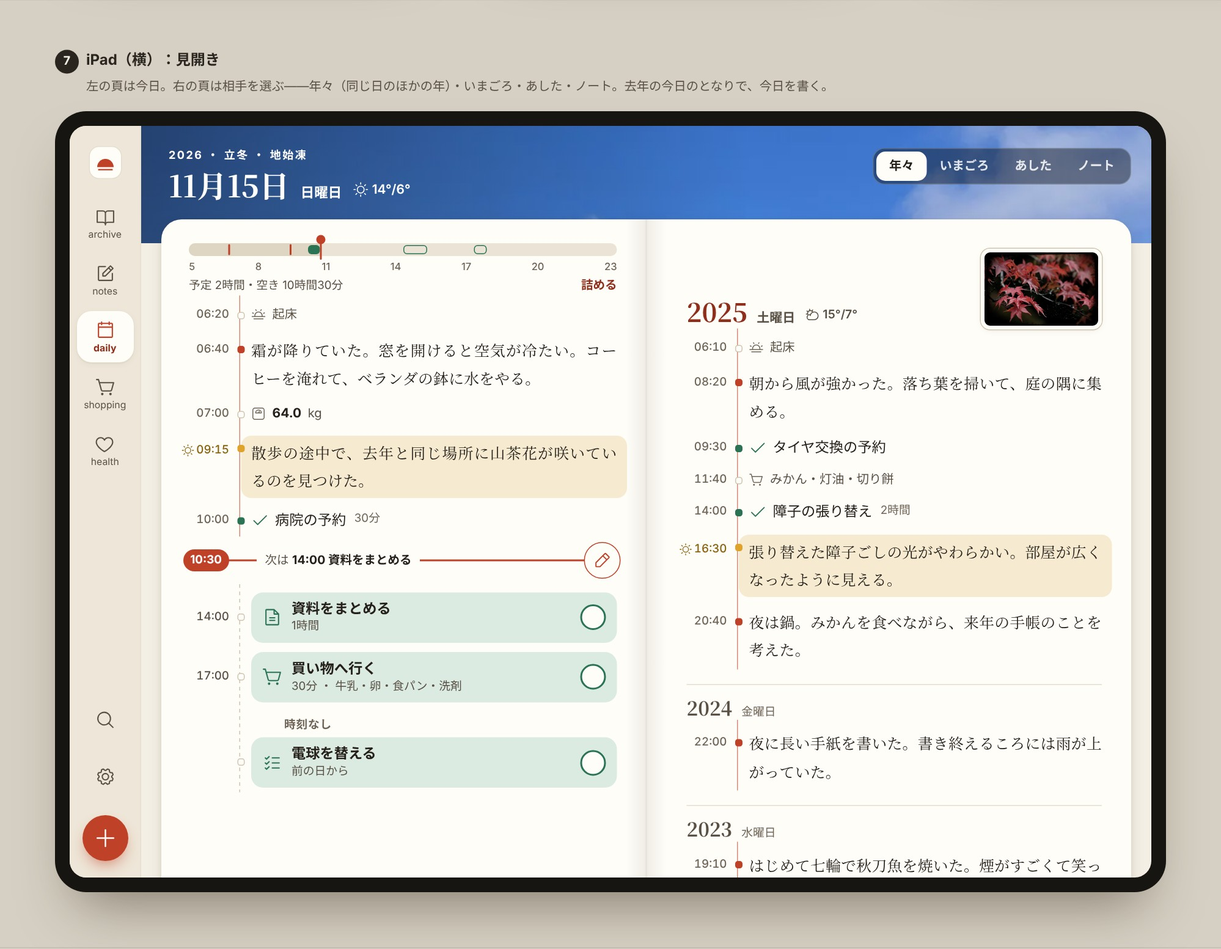
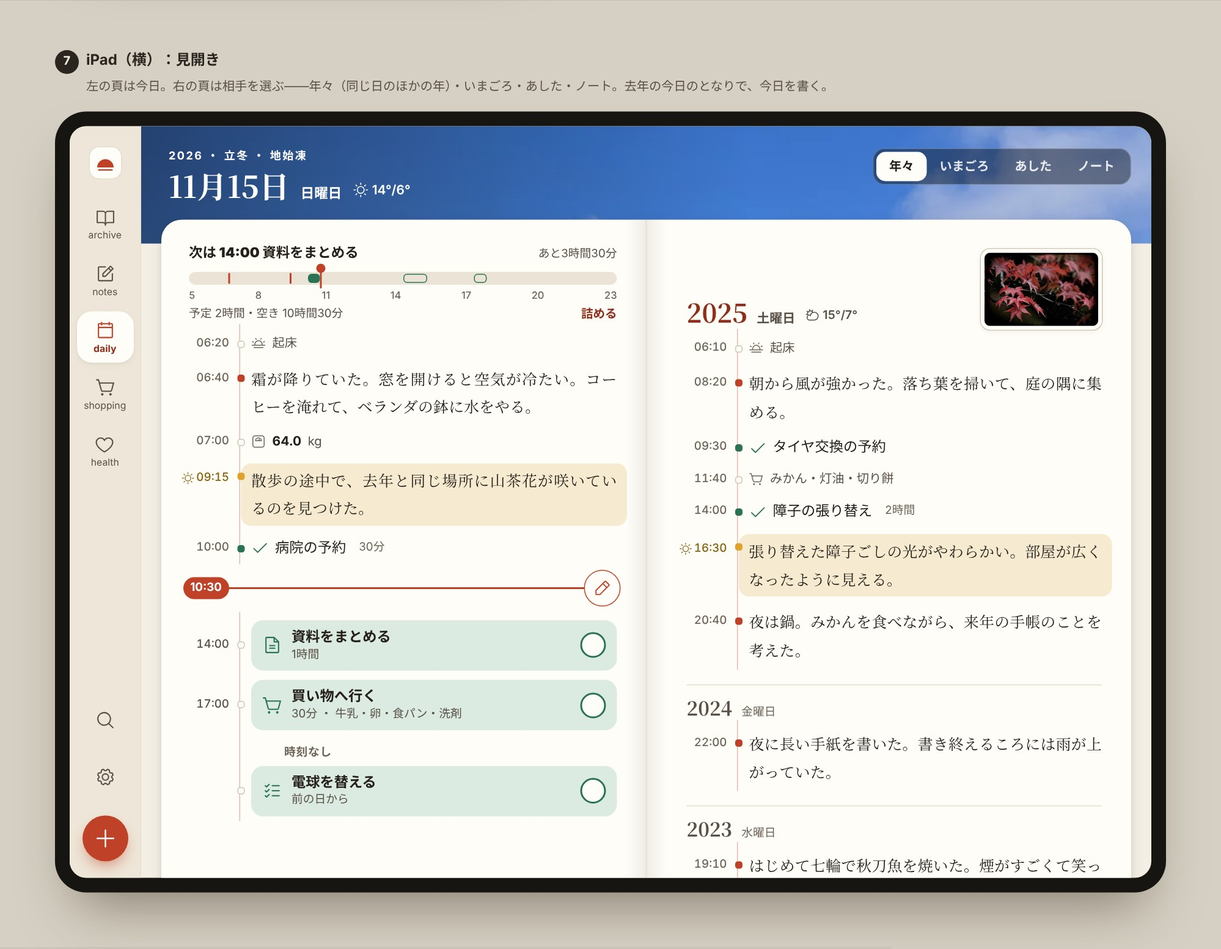
構想：指摘を受けて見本を直し、四枚足した（線は時刻の印だけ・暦年の一冊・長い日・鍵・段ごとの席）
- 今日の頁：帯は今のまま（次は・あと・予定と空き・詰める）。「いま」の線は丸薬と線と筆だけ。帯に過ぎた分の塗りを足さない・
  余白の線は頁ぜんぶ同じ細い線（進み具合の棒に見えないように）。
- 一年の一冊：一冊は暦年。月の列は「その月に始まる候」（2025年は73升：頭に 雪下出麦 1/1〜4、終わりに 12/31。js/season.js で引いた）。
  升の一行は日記の最初の一行だけ（無い候は写真と名だけ）。
- 足した絵：06 iPad 縦の月の頁／07 長い日の頁（日記六つ・用事十六・食事四つ・体重・買い物二回で約1.7画面）と、鍵が閉じているあいだの頁／
  08 段ごとの席（いま → 構1・2 → 構3と試用 → 構4）。
- 字は作りもの。コード・記録には触れていない。

次：確定仕様（README を書き直す）と段の計画（stages.md）を書く → 門 → main

Claude-Session: https://claude.ai/code/session_01TdXF5JDXnuSPD5YnDXiuap

diff --git a/shots/vision/mock.html b/shots/vision/mock.html
@@ -100,6 +100,8 @@ button { font: inherit; color: inherit; background: none; border: 0; }
 /* —— 頁（盆そのものが紙） —— */
 .page { position: absolute; inset: 122px 0 0 0; border-radius: 24px 24px 0 0; background: var(--surface); }
 .band { padding: 18px 20px 4px; }
+.band-h { display: flex; justify-content: space-between; align-items: baseline; gap: 10px; margin-bottom: 11px; font: 700 15px/1.3 var(--gothic); }
+.band-h span { font: 400 12.5px/1 var(--gothic); color: var(--ink2); white-space: nowrap; }
 .band-bar { position: relative; height: 14px; border-radius: 7px; background: var(--s2); }
 .band-bar .past { position: absolute; inset: 0 auto 0 0; border-radius: 7px 0 0 7px; background: var(--s3); }
 .band-bar i { position: absolute; top: 2px; height: 10px; border-radius: 4px; background: var(--take); }
@@ -113,8 +115,7 @@ button { font: inherit; color: inherit; background: none; border: 0; }
 
 .rows { position: relative; padding: 4px 18px 0 var(--pl, 14px); }
 .rows::before { content: ""; position: absolute; left: calc(var(--pl, 14px) + 60.75px); top: 0; bottom: 0; width: 1.5px; }
-.rows.ink::before { background: color-mix(in srgb, var(--shu) 62%, transparent); }
-.rows.pencil::before { background: repeating-linear-gradient(to bottom, var(--border2) 0 4px, transparent 4px 8px); }
+.rows::before { background: color-mix(in srgb, var(--shu) 36%, transparent); }
 .r { position: relative; display: grid; grid-template-columns: 50px 1fr; column-gap: 24px; padding: 6px 0; }
 .r::before { content: ""; position: absolute; left: 58.5px; top: 14px; width: 6px; height: 6px; border-radius: 3px; background: var(--surface); border: 1.5px solid var(--border2); }
 .r.w::before { top: 17px; background: var(--shu); border-color: var(--shu); }
@@ -132,7 +133,7 @@ button { font: inherit; color: inherit; background: none; border: 0; }
 .fact b { font: 700 14px/22px var(--num); color: var(--ink); }
 .done { display: flex; align-items: center; gap: 7px; font: 400 15.5px/24px var(--gothic); color: var(--ink); }
 .done .ic { width: 19px; height: 19px; color: var(--take); }
-.done small { font: 400 12.5px/1 var(--gothic); color: var(--ink3); margin-left: 2px; }
+.done small { font: 400 12.5px/1 var(--gothic); color: var(--ink3); margin-left: 7px; }
 
 /* 「いま」の線：ここから上は墨（あったこと）、下は鉛筆（これから） */
 .now { position: relative; display: grid; grid-template-columns: 50px 1fr 40px; column-gap: 10px; align-items: center; padding: 6px 14px 6px 14px; }
@@ -358,10 +359,12 @@ button { font: inherit; color: inherit; background: none; border: 0; }
 .yr-top { position: absolute; display: flex; align-items: center; gap: 18px; }
 .yr-top h1 { font: 700 52px/1 var(--mincho); letter-spacing: .02em; }
 .yr-top .cbtn { background: var(--surface); border: 1px solid var(--border2); }
-.wall { position: absolute; display: grid; grid-template-columns: repeat(12, 1fr); grid-template-rows: auto repeat(6, auto); grid-auto-flow: column; column-gap: 8px; row-gap: 15px; }
+.wall { position: absolute; display: grid; grid-template-columns: repeat(12, 1fr); column-gap: 8px; align-items: start; }
+.wall .col { display: grid; row-gap: 11px; }
+.kt i { display: block; margin-top: 1px; font: 500 10px/1.2 var(--num); font-style: normal; color: var(--ink3); }
 .wall h6 { font: 700 15px/1 var(--mincho); padding-bottom: 2px; display: flex; flex-direction: column; gap: 5px; }
 .wall h6 small { font: 400 10.5px/1 var(--gothic); color: var(--ink3); letter-spacing: .04em; }
-.wall .kt .ph { border-radius: 7px; aspect-ratio: 4 / 3; }
+.wall .kt .ph { border-radius: 7px; }
 .wall .kt b { margin-top: 4px; font-size: 12px; white-space: nowrap; overflow: hidden; }
 .pop { position: absolute; z-index: 5; width: 300px; padding: 12px 12px 14px; border-radius: 18px; background: var(--surface); border: 1px solid var(--border2); box-shadow: 0 24px 50px -18px rgba(50, 38, 15, .5); }
 .pop .ph { aspect-ratio: 3 / 2; border-radius: 10px; background: url(../../img/season-photo/k46.webp) center / cover; }
@@ -372,6 +375,66 @@ button { font: inherit; color: inherit; background: none; border: 0; }
 .edge-w { position: absolute; height: 22px; border-radius: 6px; background: linear-gradient(90deg, #c9cfdc, #d7d3cf, #dcdde6, #ead5d9, #d3e0d8, #dbe5c7, #f3c6d3, #e9d4e6, #cfe3c5, #bfe0c9, #d9e7b0, #b9d8d0, #b7d3e8, #a9d6e0, #f2d7a7, #e9dcae, #e7cf9f, #d6dfe6, #e8c9a8, #e3b9a0, #d9c2b0, #cfcbc0, #d5d9de, #cdd6e3, #c9cfdc); box-shadow: inset 0 0 0 1px rgba(60, 45, 20, .10); }
 .edge-w::before { content: ""; position: absolute; inset: 0; border-radius: 6px; background: repeating-linear-gradient(90deg, rgba(60, 45, 20, .17) 0 1px, transparent 1px 3.09px); }
 .edge-m { position: absolute; display: grid; grid-template-columns: repeat(12, 1fr); font: 500 11px/1 var(--num); color: var(--ink3); }
+
+/* iPad 縦：月の頁（候ごとに、ある頁だけ並べる） */
+.padv { width: 820px; height: 1180px; border-radius: 18px; }
+.padv .sbp { position: absolute; inset: 0 0 auto 0; height: 28px; display: flex; justify-content: space-between; align-items: center; padding: 6px 22px 0; font: 600 13px/1 var(--num); color: var(--ink); }
+.padv .sbp .batt { display: inline-block; width: 24px; height: 11px; border-radius: 3.5px; border: 1.2px solid currentColor; padding: 1.2px; vertical-align: -1px; }
+.padv .sbp .batt b { display: block; width: 78%; height: 100%; border-radius: 1.5px; background: currentColor; }
+.mon-top { position: absolute; inset: 40px 0 auto 0; height: 64px; display: flex; align-items: center; gap: 14px; padding: 0 44px 0 24px; }
+.mon-top .cbtn { background: var(--surface); border: 1px solid var(--border2); }
+.mon-top h1 { font: 700 34px/1 var(--mincho); display: flex; align-items: baseline; gap: 12px; flex: 1; }
+.mon-top h1 small { font: 700 17px/1 var(--mincho); color: var(--ink3); }
+.mon { position: absolute; inset: 116px 44px 0 24px; }
+.khead { display: flex; align-items: center; gap: 12px; margin: 18px 0 10px; }
+.khead .ph { width: 54px; height: 36px; border-radius: 7px; background: center / cover; flex: none; }
+.khead b { font: 700 18px/1 var(--mincho); letter-spacing: .06em; }
+.khead small { font: 400 12.5px/1 var(--gothic); color: var(--ink3); }
+.khead::after { content: ""; flex: 1; height: 1px; background: var(--border2); }
+.mgrid { display: grid; grid-template-columns: repeat(5, 1fr); gap: 10px; }
+.mgrid .mini { width: auto; height: 150px; }
+.mgrid .mini .ph { height: 64px; }
+.mgrid .mini p:not(.d) { font-size: 12.5px; }
+.mini .f { display: grid; gap: 3px; padding: 8px 10px 0; font: 400 11.5px/1.45 var(--gothic); color: var(--ink2); }
+.mini .f span { display: flex; gap: 5px; align-items: flex-start; }
+.mini .f .ic { width: 13px; height: 13px; margin-top: 2px; color: var(--ink3); }
+.padv .edge-v { right: 14px; top: 132px; bottom: 110px; width: 14px; }
+.padv .edge-v i { top: 86%; right: -3px; width: 20px; }
+.padv .tabbar { left: 150px; right: 218px; bottom: 22px; }
+.padv .fab { right: 150px; bottom: 25px; }
+
+/* 長い日の頁（送った全体）と、鍵が閉じているあいだの今日の頁 */
+.phone.long { height: auto; min-height: 852px; }
+.long .page { position: relative; inset: auto; margin-top: 218px; padding-bottom: 46px; }
+.long .plate { background-image: linear-gradient(180deg, rgba(10, 8, 6, .34), rgba(10, 8, 6, 0) 34%, rgba(10, 8, 6, 0) 52%, rgba(10, 8, 6, .62)), url(../../img/season-photo/k42.webp); }
+.fold { position: absolute; z-index: 6; left: 0; right: 0; height: 0; border-top: 1.5px dashed color-mix(in srgb, var(--ai) 60%, transparent); }
+.fold u { position: absolute; right: 8px; top: -19px; padding: 2px 7px; border-radius: 8px; background: var(--ai); color: #fff; font: 700 10.5px/1.3 var(--gothic); text-decoration: none; }
+.bgap { height: 18px; }
+.r.f1 .t { color: var(--ink); font-weight: 700; }
+.r.c::before { display: none; }
+.r .t.slot { font: 700 12px/20px var(--gothic); letter-spacing: .04em; padding-top: 2px; }
+.r .t.late { font-size: 11px; line-height: 1.25; padding-top: 8px; color: var(--ink3); }
+.r.x { padding: 1px 0; }
+.r.x::before { top: 9px; }
+.r.d.x::before { top: 10px; }
+.done.bundle { align-items: flex-start; }
+.done.bundle .ic { margin-top: 2.5px; }
+.clamp3 { display: -webkit-box; -webkit-line-clamp: 3; -webkit-box-orient: vertical; overflow: hidden; }
+.more { display: inline-block; margin: 3px 0 2px; padding: 0 10px; height: 24px; border-radius: 12px; background: var(--s2); font: 400 12px/24px var(--gothic); color: var(--ink2); }
+.lockrow { justify-self: start; display: inline-flex; align-items: center; gap: 8px; height: 40px; padding: 0 18px; border-radius: 20px; background: var(--s2); font: 700 14px/1 var(--gothic); color: var(--ink); }
+.lockrow .ic { width: 17px; height: 17px; color: var(--ink2); }
+.r.lk { padding: 10px 0 8px; }
+.r.lk::before { display: none; }
+/* 段ごとの席（小さな図） */
+.stg { display: grid; grid-template-columns: 64px repeat(4, 182px); gap: 14px 22px; align-items: start; }
+.stg h5 { font: 700 14.5px/1.4 var(--gothic); color: #2a251f; }
+.stg h5 small { display: block; font: 400 12px/1.5 var(--gothic); color: #5a5146; }
+.stg .seat { align-self: center; font: 700 13px/1.4 var(--gothic); color: #5a5146; }
+.dia.s { width: 182px; height: 318px; border-width: 6px; border-radius: 24px; font-size: 11px; line-height: 1.35; }
+.dia.s div { left: 7px; right: 7px; border-radius: 8px; }
+.dia.s .hd { left: 0; right: 0; border-radius: 0; }
+.dia.s .tb { left: 7px; right: 7px; bottom: 7px; height: 30px; border-radius: 15px; font-size: 8px; padding: 0 3px; }
+.dia.s .q { background: var(--s2); color: var(--ink3); border-style: dashed; }
 
 /* 三つの案の骨組み（小さな図） */
 .dia { width: 250px; height: 500px; border-radius: 30px; background: var(--bg); border: 8px solid #171512; position: relative; overflow: hidden; font: 700 12.5px/1.3 var(--gothic); }
@@ -389,7 +452,7 @@ button { font: inherit; color: inherit; background: none; border: 0; }
 <section class="sheet" id="sheet-phone-1">
 
   <div class="shot">
-    <p class="cap"><i>1</i>今日の頁<small>「いま」の線から上は墨（あったこと）、下は札（これから）。<br>済ませた用事は、記録の一行に変わる。</small></p>
+    <p class="cap"><i>1</i>今日の頁<small>「いま」の線は時刻の印だけ。上は字（あったこと）、下は札（これから）。<br>帯は今のまま。済ませた用事は、記録の一行に変わる。</small></p>
     <div class="device"><div class="board phone" id="p-today">
       <div class="sb"><b>10:30</b><span class="sbr"><span class="bars"><b style="height:4px"></b><b style="height:6px"></b><b style="height:8.5px"></b><b style="height:11px"></b></span><span class="batt"><b></b></span></span></div>
       <div class="sky">
@@ -400,7 +463,8 @@ button { font: inherit; color: inherit; background: none; border: 0; }
       <div class="ytabs" style="top:99px"><b>2025</b><b>2024</b><b>2023</b></div>
       <div class="page">
         <div class="band">
-          <div class="band-bar"><span class="past" style="width:30.6%"></span>
+          <div class="band-h"><b>次は 14:00 資料をまとめる</b><span>あと3時間30分</span></div>
+          <div class="band-bar">
             <i class="w" style="left:9.3%"></i><i class="w" style="left:23.6%"></i>
             <i style="left:27.8%;width:2.8%"></i><i class="todo" style="left:50%;width:5.6%"></i><i class="todo" style="left:66.7%;width:2.8%"></i>
             <i class="nowdot" style="left:30.6%"></i></div>
@@ -414,7 +478,7 @@ button { font: inherit; color: inherit; background: none; border: 0; }
           <div class="r w g"><span class="t"><i class="ic" data-ic="sun"></i>09:15</span><p class="prose good">散歩の途中で、去年と同じ場所に山茶花が咲いているのを見つけた。</p></div>
           <div class="r d"><span class="t">10:00</span><p class="done"><i class="ic" data-ic="check"></i>病院の予約<small>30分</small></p></div>
         </div>
-        <div class="now"><span class="pill">10:30</span><span class="next">次は <b>14:00 資料をまとめる</b></span><span class="pen"><i class="ic" data-ic="edit"></i></span></div>
+        <div class="now"><span class="pill">10:30</span><span></span><span class="pen"><i class="ic" data-ic="edit"></i></span></div>
         <div class="rows pencil">
           <div class="r s"><span class="t">14:00</span><div class="slip"><i class="ic" data-ic="paper"></i><div><b>資料をまとめる</b><small>1時間</small></div><span class="o"></span></div></div>
           <div class="r s"><span class="t">17:00</span><div class="slip"><i class="ic" data-ic="cart"></i><div><b>買い物へ行く</b><small>30分 ・ 牛乳・卵・食パン・洗剤</small></div><span class="o"></span></div></div>
@@ -527,7 +591,7 @@ button { font: inherit; color: inherit; background: none; border: 0; }
   </div>
 
   <div class="shot">
-    <p class="cap"><i>5</i>一年の一冊<small>一年は七十二の章。右の縁は小口——頁の束に季節の色が出て、<br>なぞると日へ飛ぶ。厚みで見せ、数や穴では見せない。</small></p>
+    <p class="cap"><i>5</i>一年の一冊<small>一冊は暦年。月ごとに、その月に始まる候。升の一行は日記の最初の一行だけ<br>（無い候は写真と名だけ）。右の縁は小口——なぞると日へ飛ぶ。</small></p>
     <div class="device"><div class="board phone" id="p-year">
       <div class="sb on-paper"><b>10:37</b><span class="sbr"><span class="bars"><b style="height:4px"></b><b style="height:6px"></b><b style="height:8.5px"></b><b style="height:11px"></b></span><span class="batt"><b></b></span></span></div>
       <div class="vol-top"><span class="cbtn"><i class="ic" data-ic="chevron-left"></i></span><h1>2025</h1><span class="cbtn"><i class="ic" data-ic="more"></i></span></div>
@@ -542,6 +606,31 @@ button { font: inherit; color: inherit; background: none; border: 0; }
   <div class="shot">
     <p class="cap"><i>6</i>暗い面（墨）<small>同じ頁を、札の組だけ替えて。<br>形・働き・動きは変えない。</small></p>
     <div class="device"><div class="board phone dark" id="p-today-dark"></div></div>
+  </div>
+</section>
+
+<!-- ================= 電話 その3：長い日・鍵 ================= -->
+<section class="sheet" id="sheet-phone-3">
+  <div class="shot">
+    <p class="cap"><i>11</i>長い日の頁（送った全体）<small>日記五つ＋あとから一つ・用事十六・食事四つ・体重・買い物二回・起床と就寝。<br>箱も見出しも足さず、時刻の列と余白だけで組む。青い点線が一画面ぶん。</small></p>
+    <div class="device"><div class="board phone long" id="p-long">
+      <div class="sb"><b>10:40</b><span class="sbr"><span class="bars"><b style="height:4px"></b><b style="height:6px"></b><b style="height:8.5px"></b><b style="height:11px"></b></span><span class="batt"><b></b></span></span></div>
+      <div class="plate">
+        <div class="btns"><span class="rbtn"><i class="ic" data-ic="chevron-left"></i></span><span class="rbtn"><i class="ic" data-ic="more"></i></span></div>
+        <p class="sub">2025 ・ 霜降 ・ 霜始降<em><i class="ic" data-ic="sun"></i>19°/11°</em></p>
+        <p class="date"><b>10月25日</b><span>土曜日</span></p>
+      </div>
+      <div class="ytabs" style="top:191px"><b>2026</b><b class="cur">2025</b><b>2024</b></div>
+      <div class="page past">
+        <div class="rows ink" style="padding-top:16px"><div class="r x f1"><span class="t">05:50</span><p class="fact"><i class="ic" data-ic="sunrise"></i>起床<span style="margin-left:8px;color:var(--ink3)">睡眠 <b>6:40</b></span></p></div><div class="r x"><span class="t">06:05</span><p class="fact"><i class="ic" data-ic="scale"></i><b>64.6</b>kg</p></div><div class="r d x"><span class="t">06:10</span><p class="done bundle"><i class="ic" data-ic="check"></i><span>朝のルーティン・洗濯・ごみ出し</span></p></div><div class="bgap"></div><div class="r x f1"><span class="t slot">朝</span><p class="fact"><i class="ic" data-ic="meal"></i>トースト・ゆで卵・ヨーグルト</p></div><div class="r w"><span class="t">07:40</span><div><p class="prose">霜が降りた。今年はじめて、車の窓が白い。靴下を厚手に替える。</p></div></div><div class="r d x"><span class="t">08:30</span><p class="done"><i class="ic" data-ic="check"></i><span>町内会の書類を出す</span></p></div><div class="r d x"><span class="t">09:00</span><p class="done"><i class="ic" data-ic="check"></i><span>図書館へ本を返す<small>30分</small></span></p></div><div class="r x"><span class="t">09:40</span><p class="fact"><i class="ic" data-ic="cart"></i>牛乳・卵・食パン・りんご・洗剤</p></div><div class="bgap"></div><div class="r w f1"><span class="t">10:15</span><div><p class="prose clamp3">午前のうちに、棚の本を入れ替えた。読み終えた本を下の段へ、これから読む本を目の高さへ。背表紙を眺めていると、去年の冬に読んだ一冊が出てきて、そのまま床に座って読みはじめてしまう。</p><span class="more">全文を読む</span><p class="prose">結局、片づけは半分で終わった。それでも棚の前に立つと、少し先のことを考えたくなる。</p></div></div><div class="r x"><span class="t">12:10</span><p class="fact"><i class="ic" data-ic="meal"></i>きつねうどん・おにぎり</p></div><div class="r d x"><span class="t">13:00</span><p class="done"><i class="ic" data-ic="check"></i><span>資料をまとめる<small>1時間</small></span></p></div><div class="r d x"><span class="t">14:10</span><p class="done bundle"><i class="ic" data-ic="check"></i><span>歯医者の予約・振込・粗大ごみの申し込み</span></p></div><div class="r x"><span class="t slot">間食</span><p class="fact"><i class="ic" data-ic="snack"></i>みかん</p></div><div class="r w g"><span class="t"><i class="ic" data-ic="sun"></i>15:20</span><div><p class="prose good">公園の銀杏が色づきはじめていた。落ち葉を一枚、拾って帰る。</p></div></div><div class="bgap"></div><div class="r d x f1"><span class="t">16:30</span><p class="done"><i class="ic" data-ic="check"></i><span>買い物へ行く<small>30分</small></span></p></div><div class="r x"><span class="t">16:40</span><p class="fact"><i class="ic" data-ic="cart"></i>鶏肉・白菜・豆腐・ゆず</p></div><div class="r d x"><span class="t">17:10</span><p class="done"><i class="ic" data-ic="check"></i><span>夕食の支度</span></p></div><div class="bgap"></div><div class="r x f1"><span class="t">18:30</span><p class="fact"><i class="ic" data-ic="meal"></i>鍋・ごはん</p></div><div class="r d x"><span class="t">19:20</span><p class="done bundle"><i class="ic" data-ic="check"></i><span>風呂・皿洗い・戸締まり</span></p></div><div class="r w"><span class="t">20:40</span><div><p class="prose">夜は鍋。食べながら、来年の手帳のことを話した。</p></div></div><div class="r d x"><span class="t">21:30</span><p class="done"><i class="ic" data-ic="check"></i><span>明日の持ち物をそろえる</span></p></div><div class="r d x c"><span class="t"></span><p class="done"><i class="ic" data-ic="check"></i><span>家計のメモ</span></p></div><div class="r w"><span class="t">22:10</span><div><p class="prose">寝る前に十頁だけ読む。問いが一つ残った。</p></div></div><div class="r x"><span class="t">23:20</span><p class="fact"><i class="ic" data-ic="bed"></i>就寝</p></div><div class="bgap"></div><div class="r w"><span class="t late">10/26<br>07:10</span><div><p class="prose">きのう書き忘れたこと。帰り道で見た月が大きかった。</p></div></div></div>
+        <p class="body-line"><span><i class="ic" data-ic="steps"></i><b>9,840</b>歩</span></p>
+      </div>
+      <span class="fold" style="top:852px"><u>一画面</u></span><span class="fold" style="top:1704px"><u>二画面</u></span>
+    </div></div>
+  </div>
+  <div class="shot">
+    <p class="cap"><i>12</i>鍵が閉じているあいだ<small>今日の頁に出るのは、今の tasks と同じものだけ。<br>日記・引いた事実・年々のつまみは組まない（覆うのではなく、字を持たない）。</small></p>
+    <div class="device"><div class="board phone" id="p-lock"></div></div>
   </div>
 </section>
 
@@ -565,7 +654,8 @@ button { font: inherit; color: inherit; background: none; border: 0; }
       <div class="spread" style="left:100px;right:22px;top:102px;bottom:-24px">
         <div class="leaf">
           <div class="band" style="padding:22px 26px 4px 30px">
-            <div class="band-bar"><span class="past" style="width:30.6%"></span>
+            <div class="band-h"><b>次は 14:00 資料をまとめる</b><span>あと3時間30分</span></div>
+            <div class="band-bar">
               <i class="w" style="left:9.3%"></i><i class="w" style="left:23.6%"></i>
               <i style="left:27.8%;width:2.8%"></i><i class="todo" style="left:50%;width:5.6%"></i><i class="todo" style="left:66.7%;width:2.8%"></i>
               <i class="nowdot" style="left:30.6%"></i></div>
@@ -579,7 +669,7 @@ button { font: inherit; color: inherit; background: none; border: 0; }
             <div class="r w g"><span class="t"><i class="ic" data-ic="sun"></i>09:15</span><p class="prose good">散歩の途中で、去年と同じ場所に山茶花が咲いているのを見つけた。</p></div>
             <div class="r d"><span class="t">10:00</span><p class="done"><i class="ic" data-ic="check"></i>病院の予約<small>30分</small></p></div>
           </div>
-          <div class="now" style="padding-left:24px;padding-right:22px"><span class="pill">10:30</span><span class="next">次は <b>14:00 資料をまとめる</b></span><span class="pen"><i class="ic" data-ic="edit"></i></span></div>
+          <div class="now" style="padding-left:24px;padding-right:22px"><span class="pill">10:30</span><span></span><span class="pen"><i class="ic" data-ic="edit"></i></span></div>
           <div class="rows pencil" style="--pl:24px;padding-right:26px">
             <div class="r s"><span class="t">14:00</span><div class="slip"><i class="ic" data-ic="paper"></i><div><b>資料をまとめる</b><small>1時間</small></div><span class="o"></span></div></div>
             <div class="r s"><span class="t">17:00</span><div class="slip"><i class="ic" data-ic="cart"></i><div><b>買い物へ行く</b><small>30分 ・ 牛乳・卵・食パン・洗剤</small></div><span class="o"></span></div></div>
@@ -612,6 +702,21 @@ button { font: inherit; color: inherit; background: none; border: 0; }
   </div>
 </section>
 
+<!-- ================= iPad 縦：月の頁 ================= -->
+<section class="sheet" id="sheet-pad-2">
+  <div class="shot">
+    <p class="cap"><i>10</i>iPad（縦）：月の頁<small>ひと月を、候ごとの見出しで。ある頁だけが並ぶ（無い日の升は作らない）。<br>書いていない日も、済ませた・買った・歩いたで頁になっている。</small></p>
+    <div class="device pad"><div class="board padv" id="t-month">
+      <div class="sbp"><b>10:38　11月15日(日)</b><span><span class="batt"><b></b></span></span></div>
+      <div class="mon-top"><span class="cbtn"><i class="ic" data-ic="chevron-left"></i></span><h1>11月<small>2025</small></h1><span class="seg paper"><b>七十二候</b><b class="on">月</b><b>年々</b></span></div>
+      <div class="mon"><p class="khead"><span class="ph" style="background-image:url(../../img/season-photo/k44.webp)"></span><b>楓蔦黄</b><small>霜降 末候 ・ 2日―6日</small></p><div class="mgrid"><div class="mini"><p class="d">2<small>日</small></p><p>公園の楓が色づいてきた。</p></div><div class="mini"><p class="d">3<small>月</small></p><p>文化の日。古本市をのぞく。</p></div><div class="mini"><p class="d">4<small>火</small></p><div class="f"><span><i class="ic" data-ic="check"></i>歯医者</span><span><i class="ic" data-ic="cart"></i>柿・ゆず</span><span><i class="ic" data-ic="steps"></i>7,310歩</span></div></div><div class="mini"><p class="d">5<small>水</small></p><p>朝の空が高い。布団を干す。</p></div><div class="mini"><p class="d">6<small>木</small></p><p>夜、湯豆腐にした。</p></div></div><p class="khead"><span class="ph" style="background-image:url(../../img/season-photo/k45.webp)"></span><b>山茶始開</b><small>立冬 初候 ・ 7日―11日</small></p><div class="mgrid"><div class="mini"><p class="d">7<small>金</small></p><p>立冬。暦のうえでは冬がはじまる。</p></div><div class="mini has-ph"><div class="ph" style="background-image:url(../../img/season-photo/k45.webp)"></div><p class="d">8<small>土</small></p><p>山茶花のつぼみがふくらんできた。</p></div><div class="mini"><p class="d">9<small>日</small></p><p>図書館へ。冬に読む本を選ぶ。</p></div><div class="mini"><p class="d">10<small>月</small></p><div class="f"><span><i class="ic" data-ic="check"></i>灯油の配達</span><span><i class="ic" data-ic="meal"></i>おでん</span><span><i class="ic" data-ic="steps"></i>6,120歩</span></div></div><div class="mini"><p class="d">11<small>火</small></p><p>冷たい雨。長靴を出した。</p></div></div><p class="khead"><span class="ph" style="background-image:url(../../img/season-photo/k46.webp)"></span><b>地始凍</b><small>立冬 次候 ・ 12日―16日</small></p><div class="mgrid"><div class="mini"><p class="d">12<small>水</small></p><p>朝、車の窓に霜。</p></div><div class="mini"><p class="d">13<small>木</small></p><p>図書館で三冊借りる。帰りに銀杏並木を歩いた。</p></div><div class="mini"><p class="d">14<small>金</small></p><p>雨。一日家で過ごす。棚の整理をした。</p></div><div class="mini has-ph"><div class="ph" style="background-image:url(../../img/season-photo/k44.webp)"></div><p class="d">15<small>土</small></p><p>落ち葉を掃いて、障子を張り替えた。</p></div><div class="mini"><p class="d">16<small>日</small></p><p>灯油を買い足す。ストーブを出した。</p></div></div><p class="khead"><span class="ph" style="background-image:url(../../img/season-photo/k47.webp)"></span><b>金盞香</b><small>立冬 末候 ・ 17日―21日</small></p><div class="mgrid"><div class="mini"><p class="d">17<small>月</small></p><p>水仙の芽が出ていた。</p></div><div class="mini"><p class="d">19<small>水</small></p><p>干し柿がいい色になってきた。</p></div><div class="mini"><p class="d">20<small>木</small></p><p>夕方の空が早く暮れる。</p></div><div class="mini has-ph"><div class="ph" style="background-image:url(../../img/season-photo/k47.webp)"></div><p class="d">21<small>金</small></p><p>鍋の材料を買いに行く。</p></div></div><p class="khead"><span class="ph" style="background-image:url(../../img/season-photo/k48.webp)"></span><b>虹蔵不見</b><small>小雪 初候 ・ 22日―26日</small></p><div class="mgrid"><div class="mini"><p class="d">22<small>土</small></p><p>朝、吐く息が白い。</p></div><div class="mini"><p class="d">23<small>日</small></p><p>勤労感謝の日。新米を炊く。</p></div><div class="mini"><p class="d">24<small>月</small></p><p>手袋を出した。</p></div></div></div>
+      <div class="edge-v"><i></i></div>
+      <nav class="tabbar"><a class="on"><i class="ic" data-ic="book" data-solid></i>archive</a><a><i class="ic" data-ic="notes"></i>notes</a><a><i class="ic" data-ic="calendar"></i>daily</a><a><i class="ic" data-ic="cart"></i>shopping</a><a><i class="ic" data-ic="heart"></i>health</a></nav>
+      <span class="fab"><i class="ic" data-ic="plus"></i></span>
+    </div></div>
+  </div>
+</section>
+
 <!-- ================= パソコン：机 ================= -->
 <section class="sheet" id="sheet-pc-1">
   <div class="shot">
@@ -638,7 +743,8 @@ button { font: inherit; color: inherit; background: none; border: 0; }
           <div class="sun today"><u>日</u><b>15</b><i>病院の予約</i><i>資料をまとめる</i></div>
         </div>
         <div class="band" style="padding:16px 28px 4px 30px">
-          <div class="band-bar"><span class="past" style="width:30.6%"></span>
+          <div class="band-h"><b>次は 14:00 資料をまとめる</b><span>あと3時間30分</span></div>
+          <div class="band-bar">
             <i class="w" style="left:9.3%"></i><i class="w" style="left:23.6%"></i>
             <i style="left:27.8%;width:2.8%"></i><i class="todo" style="left:50%;width:5.6%"></i><i class="todo" style="left:66.7%;width:2.8%"></i>
             <i class="nowdot" style="left:30.6%"></i></div>
@@ -652,7 +758,7 @@ button { font: inherit; color: inherit; background: none; border: 0; }
           <div class="r w g"><span class="t"><i class="ic" data-ic="sun"></i>09:15</span><p class="prose good">散歩の途中で、去年と同じ場所に山茶花が咲いているのを見つけた。</p></div>
           <div class="r d"><span class="t">10:00</span><p class="done"><i class="ic" data-ic="check"></i>病院の予約<small>30分</small></p></div>
         </div>
-        <div class="now" style="padding-left:24px;padding-right:26px"><span class="pill">10:30</span><span class="next">次は <b>14:00 資料をまとめる</b></span><span class="pen"><i class="ic" data-ic="edit"></i></span></div>
+        <div class="now" style="padding-left:24px;padding-right:26px"><span class="pill">10:30</span><span></span><span class="pen"><i class="ic" data-ic="edit"></i></span></div>
         <div class="rows pencil" style="--pl:24px;padding-right:30px">
           <div class="r s"><span class="t">14:00</span><div class="slip"><i class="ic" data-ic="paper"></i><div><b>資料をまとめる</b><small>1時間</small></div><span class="o"></span></div></div>
           <div class="r s"><span class="t">17:00</span><div class="slip"><i class="ic" data-ic="cart"></i><div><b>買い物へ行く</b><small>30分 ・ 牛乳・卵・食パン・洗剤</small></div><span class="o"></span></div></div>
@@ -687,7 +793,7 @@ button { font: inherit; color: inherit; background: none; border: 0; }
 
 <section class="sheet" id="sheet-pc-2">
   <div class="shot">
-    <p class="cap"><i>9</i>パソコン：一年の七十二枚<small>一年が一画面に収まる。列は月、升は候。升にふれると、その候の頁が出る。下の帯は小口（一年ぶんの頁の束）。</small></p>
+    <p class="cap"><i>9</i>パソコン：一年の七十二枚<small>一年が一画面に収まる。一冊は暦年（2025年は73升：頭に 雪下出麦 1/1–4、終わりに 12/31）。列は暦の月、升はその月に始まる候。下の帯は小口。</small></p>
     <div class="device desk"><div class="board pc" id="d-year">
       <div class="rail wide">
         <p class="brand"><span class="logo"></span>くらしノート</p>
@@ -701,7 +807,7 @@ button { font: inherit; color: inherit; background: none; border: 0; }
       <div class="yr-top" style="left:284px;top:34px"><span class="cbtn"><i class="ic" data-ic="chevron-left"></i></span><h1>2025</h1><span class="cbtn"><i class="ic" data-ic="chevron"></i></span></div>
       <div class="yr-top" style="right:36px;top:44px"><span class="seg paper"><b class="on">七十二候</b><b>月</b><b>年々</b></span><span class="cbtn" style="margin-left:4px"><i class="ic" data-ic="shuffle"></i></span><span class="cbtn"><i class="ic" data-ic="more"></i></span></div>
       <div class="wall" id="wall" style="left:284px;right:36px;top:124px"></div>
-      <div class="pop" style="left:872px;top:330px">
+      <div class="pop" style="left:916px;top:300px">
         <div class="ph"></div>
         <h4>地始凍<small>立冬 次候 ・ 11月12日―16日</small></h4>
         <p><u>12 水</u>朝、車の窓に霜。</p>
@@ -711,6 +817,16 @@ button { font: inherit; color: inherit; background: none; border: 0; }
       <div class="edge-w" style="left:284px;right:36px;bottom:44px"></div>
       <div class="edge-m" style="left:284px;right:36px;bottom:22px"><span>1</span><span>2</span><span>3</span><span>4</span><span>5</span><span>6</span><span>7</span><span>8</span><span>9</span><span>10</span><span>11</span><span>12</span></div>
     </div></div>
+  </div>
+</section>
+
+<!-- ================= 段ごとの席 ================= -->
+<section class="sheet" id="sheet-stages">
+  <div class="stg">
+    <span></span>
+    <h5>いま</h5><h5>構1・構2<small>頁の組み／年々・いまごろ</small></h5><h5>構3 と試用（約二週間）<small>書く・「いま」の線</small></h5><h5>構4 から<small>門で決めたら、席を組み替える</small></h5>
+    <p class="seat">席1<br>（左端）</p><div class="dia s"><div class="hd" style="top:0;height:40px">空の帯</div><div class="" style="top:48px;height:34px">候の札</div><div class="" style="top:88px;height:30px">書く口 三つ</div><div class="" style="top:124px;height:92px">Daily Log<br>（吹き出し）</div><div class="" style="top:222px;height:42px">あの日・どこかの一日</div><div class="tb"><u class="on">daily</u><u>notes</u><u>tasks</u><u>shopping</u><u>health</u></div></div><div class="dia s"><div class="hd" style="top:0;height:40px">空の帯</div><div class="" style="top:48px;height:34px">候の札</div><div class="" style="top:88px;height:30px">書く口 三つ</div><div class="k" style="top:124px;height:92px">頁（字の行・引いた事実）<br>＋年々のつまみ</div><div class="k" style="top:222px;height:42px">いまごろ・どこかの一日</div><div class="tb"><u class="on">daily</u><u>notes</u><u>tasks</u><u>shopping</u><u>health</u></div></div><div class="dia s"><div class="hd" style="top:0;height:40px">空の帯</div><div class="" style="top:48px;height:34px">候の札</div><div class="" style="top:88px;height:24px">ノート・思考</div><div class="k" style="top:118px;height:46px">あったこと（字の行）</div><div class="k" style="top:170px;height:18px">いま ─ 筆</div><div class="k" style="top:194px;height:34px">これから（札。丸は効く）</div><div class="" style="top:234px;height:30px">いまごろ</div><div class="tb"><u class="on">daily</u><u>notes</u><u>tasks</u><u>shopping</u><u>health</u></div></div><div class="dia s"><div class="hd" style="top:0;height:40px">空の帯</div><div class="k" style="top:48px;height:52px">扉（いまの候）</div><div class="k" style="top:106px;height:36px">棚・ふと開く</div><div class="k" style="top:148px;height:62px">いまごろ</div><div class="q" style="top:216px;height:48px">一年の一冊・月の頁<br>（構5）</div><div class="tb"><u class="on">archive</u><u>notes</u><u>daily</u><u>shopping</u><u>health</u></div></div>
+    <p class="seat">席3<br>（まん中）</p><div class="dia s"><div class="hd" style="top:0;height:40px">空の帯</div><div class="" style="top:48px;height:34px">週の暦</div><div class="" style="top:88px;height:30px">一日の帯</div><div class="" style="top:124px;height:92px">時間割</div><div class="" style="top:222px;height:42px">時刻なし</div><div class="tb"><u>daily</u><u>notes</u><u class="on">tasks</u><u>shopping</u><u>health</u></div></div><div class="dia s"><div class="hd" style="top:0;height:40px">空の帯</div><div class="" style="top:48px;height:34px">週の暦</div><div class="" style="top:88px;height:30px">一日の帯</div><div class="" style="top:124px;height:92px">時間割（今のまま）</div><div class="" style="top:222px;height:42px">時刻なし</div><div class="tb"><u>daily</u><u>notes</u><u class="on">tasks</u><u>shopping</u><u>health</u></div></div><div class="dia s"><div class="hd" style="top:0;height:40px">空の帯</div><div class="" style="top:48px;height:34px">週の暦</div><div class="" style="top:88px;height:30px">一日の帯</div><div class="" style="top:124px;height:92px">時間割（今のまま）<br>組む・動かすはここ</div><div class="" style="top:222px;height:42px">時刻なし</div><div class="tb"><u>daily</u><u>notes</u><u class="on">tasks</u><u>shopping</u><u>health</u></div></div><div class="dia s"><div class="hd" style="top:0;height:40px">空の帯</div><div class="" style="top:48px;height:34px">週の暦</div><div class="" style="top:88px;height:30px">一日の帯</div><div class="k" style="top:124px;height:38px">あったこと（字の行）</div><div class="k" style="top:168px;height:18px">いま ─ 筆</div><div class="" style="top:192px;height:42px">時間割（これから）</div><div class="" style="top:240px;height:28px">時刻なし</div><div class="tb"><u>archive</u><u>notes</u><u class="on">daily</u><u>shopping</u><u>health</u></div></div>
   </div>
 </section>
 
@@ -773,30 +889,36 @@ window.KN = { icons: { register: function (name, set) { window.PH = set; } } };
   var KO = ["雀始巣","桜始開","雷乃発声","玄鳥至","鴻雁北","虹始見","葭始生","霜止出苗","牡丹華","蛙始鳴","蚯蚓出","竹笋生","蚕起食桑","紅花栄","麦秋至","蟷螂生","腐草為螢","梅子黄","乃東枯","菖蒲華","半夏生","温風至","蓮始開","鷹乃学習","桐始結花","土潤溽暑","大雨時行","涼風至","寒蝉鳴","蒙霧升降","綿柎開","天地始粛","禾乃登","草露白","鶺鴒鳴","玄鳥去","雷乃収声","蟄虫坏戸","水始涸","鴻雁来","菊花開","蟋蟀在戸","霜始降","霎時施","楓蔦黄","山茶始開","地始凍","金盞香","虹蔵不見","朔風払葉","橘始黄","閉塞成冬","熊蟄穴","鱖魚群","乃東生","麋角解","雪下出麦","芹乃栄","水泉動","雉始雊","款冬華","水沢腹堅","鶏始乳","東風解凍","黄鶯睍睆","魚上氷","土脉潤起","霞始靆","草木萌動","蟄虫啓戸","桃始笑","菜虫化蝶"];
   var SEKKI = ["春分","清明","穀雨","立夏","小満","芒種","夏至","小暑","大暑","立秋","処暑","白露","秋分","寒露","霜降","立冬","小雪","大雪","冬至","小寒","大寒","立春","雨水","啓蟄"];
   var photo = function (k) { return "../../img/season-photo/k" + String(k).padStart(2, "0") + ".webp"; };
-  /* 月の列：1月＝小寒・大寒（候 57〜62）から、六つずつ。 */
-  var monthKo = function (m) { return [0, 1, 2, 3, 4, 5].map(function (i) { return (57 + 6 * (m - 1) + i) % 72; }); };
-  var monthSekki = function (m) { var k = monthKo(m)[0]; return SEKKI[Math.floor(k / 3)] + "・" + SEKKI[(Math.floor(k / 3) + 1) % 24]; };
+  /* 2025年（暦年）の候の続き：[候, 始まり, 終わり]。js/season.js の of() で一日ずつ引いて作った（73）。 */
+  var SEG = [[56,"1/1","1/4"],[57,"1/5","1/9"],[58,"1/10","1/14"],[59,"1/15","1/19"],[60,"1/20","1/24"],[61,"1/25","1/29"],[62,"1/30","2/2"],[63,"2/3","2/7"],[64,"2/8","2/12"],[65,"2/13","2/17"],[66,"2/18","2/22"],[67,"2/23","2/27"],[68,"2/28","3/4"],[69,"3/5","3/9"],[70,"3/10","3/14"],[71,"3/15","3/19"],[0,"3/20","3/24"],[1,"3/25","3/29"],[2,"3/30","4/3"],[3,"4/4","4/8"],[4,"4/9","4/14"],[5,"4/15","4/19"],[6,"4/20","4/24"],[7,"4/25","4/29"],[8,"4/30","5/4"],[9,"5/5","5/9"],[10,"5/10","5/14"],[11,"5/15","5/20"],[12,"5/21","5/25"],[13,"5/26","5/30"],[14,"5/31","6/4"],[15,"6/5","6/10"],[16,"6/11","6/15"],[17,"6/16","6/20"],[18,"6/21","6/25"],[19,"6/26","6/30"],[20,"7/1","7/6"],[21,"7/7","7/11"],[22,"7/12","7/16"],[23,"7/17","7/21"],[24,"7/22","7/27"],[25,"7/28","8/1"],[26,"8/2","8/6"],[27,"8/7","8/11"],[28,"8/12","8/17"],[29,"8/18","8/22"],[30,"8/23","8/27"],[31,"8/28","9/1"],[32,"9/2","9/6"],[33,"9/7","9/11"],[34,"9/12","9/17"],[35,"9/18","9/22"],[36,"9/23","9/27"],[37,"9/28","10/2"],[38,"10/3","10/7"],[39,"10/8","10/12"],[40,"10/13","10/17"],[41,"10/18","10/22"],[42,"10/23","10/27"],[43,"10/28","11/1"],[44,"11/2","11/6"],[45,"11/7","11/11"],[46,"11/12","11/16"],[47,"11/17","11/21"],[48,"11/22","11/26"],[49,"11/27","12/1"],[50,"12/2","12/6"],[51,"12/7","12/11"],[52,"12/12","12/16"],[53,"12/17","12/21"],[54,"12/22","12/25"],[55,"12/26","12/30"],[56,"12/31","12/31"]];
+  var monthSegs = function (m) { return SEG.filter(function (x) { return +x[1].split("/")[0] === m; }); };
+  var monthSekki = function (m) { return monthSegs(m).filter(function (x) { return x[0] % 3 === 0; }).map(function (x) { return SEKKI[x[0] / 3]; }).join("・"); };
+  var edge = function (x) { return x[0] === 56 ? "<i>" + (x[1] === x[2] ? x[1] : x[1] + "–" + x[2].split("/")[1]) + "</i>" : ""; };
 
   var wall = document.getElementById("wall");
   if (wall) {
     var h = "";
     for (var m = 1; m <= 12; m++) {
-      h += "<h6>" + m + "月<small>" + monthSekki(m) + "</small></h6>";
-      monthKo(m).forEach(function (k) {
-        h += '<div class="kt' + (k === 46 ? " cur" : "") + '"><div class="ph" style="background-image:url(' + photo(k) + ')"></div><b>' + KO[k] + "</b></div>";
+      h += '<div class="col"><h6>' + m + "月<small>" + monthSekki(m) + "</small></h6>";
+      monthSegs(m).forEach(function (x) {
+        var k = x[0];
+        h += '<div class="kt' + (k === 46 ? " cur" : "") + '"><div class="ph" style="background-image:url(' + photo(k) + ')"></div><b>' + KO[k] + "</b>" + edge(x) + "</div>";
       });
+      h += "</div>";
     }
     wall.innerHTML = h;
   }
   var vol = document.getElementById("vol-phone");
   if (vol) {
-    var lines = { 39: "朝の空に雁の声。", 40: "菊を一輪、玄関に。", 41: "虫の音が戸口まで届く。", 42: "初霜。車の窓が白い。", 43: "通り雨のあと、虹を見た。", 44: "公園の楓が色づく。",
-      45: "山茶花が咲きはじめた。", 46: "落ち葉を掃いて、障子を張り替えた。", 47: "水仙のつぼみを見つけた。", 48: "朝、吐く息が白い。", 49: "北風。洗濯物がよく乾く。", 50: "みかんを箱で買う。",
-      51: "初雪。", 52: "毛布を一枚足す。", 53: "大掃除の段取りを書く。" };
+    /* 升の一行は、その候に書いた日記の最初の一行だけ。無い候（43・49）は写真と名だけ。 */
+    var lines = { 38: "田んぼの水が抜かれていた。", 39: "朝の空に雁の声。", 40: "菊を一輪、玄関に。", 41: "虫の音が戸口まで届く。", 42: "霜が降りた。車の窓が白い。",
+      44: "公園の楓が色づいてきた。", 45: "立冬。暦のうえでは冬がはじまる。", 46: "朝、車の窓に霜。", 47: "水仙の芽が出ていた。", 48: "朝、吐く息が白い。",
+      50: "みかんを箱で買う。", 51: "初雪。", 52: "毛布を一枚足す。" };
     var v = "";
     [10, 11, 12].forEach(function (m) {
       v += '<p class="mhead">' + m + "月<small>" + monthSekki(m) + "</small></p><div class=\"kgrid\">";
-      monthKo(m).slice(0, m === 12 ? 3 : 6).forEach(function (k) {
+      monthSegs(m).slice(0, m === 12 ? 3 : 6).forEach(function (x) {
+        var k = x[0];
         v += '<div class="kt' + (k === 46 ? " cur" : "") + '"><div class="ph" style="background-image:url(' + photo(k) + ')"></div><b>' + KO[k] + "</b><p>" + (lines[k] || "") + "</p></div>";
       });
       v += "</div>";
@@ -815,6 +937,14 @@ window.KN = { icons: { register: function (name, set) { window.PH = set; } } };
   var src = document.getElementById("p-today"), dst = document.getElementById("p-today-dark");
   if (src && dst) {
     dst.innerHTML = src.innerHTML;
+  }
+  var lk = document.getElementById("p-lock");
+  if (src && lk) {
+    lk.innerHTML = src.innerHTML;
+    lk.querySelectorAll(".ytabs, .band-bar i.w").forEach(function (el) { el.remove(); });
+    var ink = lk.querySelector(".rows.ink");
+    ink.querySelectorAll(".r").forEach(function (el) { if (!el.classList.contains("d")) el.remove(); });
+    ink.insertAdjacentHTML("afterbegin", '<div class="r lk"><span class="t"></span><p class="lockrow"><i class="ic" data-ic="lock"></i>開ける</p></div>');
   }
   paint(document);
   document.documentElement.setAttribute("data-ready", "1");

diff --git a/shots/vision/README.md b/shots/vision/README.md
@@ -13,6 +13,7 @@
 | `03-ipad-spread.jpg` | ⑦iPad 横：見開き |
 | `04-pc-page.jpg` | ⑧パソコン：頁・となりの頁・小口 |
 | `05-pc-year.jpg` | ⑨パソコン：一年の七十二枚 |
+| `06-ipad-month.jpg` | ⑩iPad 縦：月の頁 |
 | `00-plans.jpg` | 三つの案の骨組み（A 磨く／B 一日一頁、めぐる歳時記／C 三つの時） |
 
 ## 0. 一行で
@@ -70,7 +71,7 @@
 |---|---|---|---|
 | 席 | 五つのまま（daily・notes・tasks・shopping・health） | 五つのまま。**tasks → 今日の頁、daily → archive** | 三つ（きょう・これまで・ノート）。買うもの・からだは「きょう」の中の段 |
 | 変わること | Daily Log を頁の組みに。年々・いまごろを daily の足もとに。磨4〜8 | 予定と記録が一本の時間の軸に。ふり返りに席が一つ。一年の一冊・棚・小口 | 一日のぜんぶが一枚に。道具は頁から開く |
-| 長所 | 危なさが小さい。段1〜3 で済む | 思想に居場所ができる。一日が一つになる。席の場所・数・＋は同じ | いちばん純粋。席が減る |
+| 長所 | 危なさが小さい。構1〜3 で済む | 思想に居場所ができる。一日が一つになる。席の場所・数・＋は同じ | いちばん純粋。席が減る |
 | 短所 | 「今日」が二つの席に割れたまま。ふり返りは足もとのまま | tasks と daily（どちらも大きい）を組み直す。慣れた席の中身が替わる | 買うもの（店で一手）・からだ（朝に一手）が奥へ入る。頁が計器盤になる |
 | 思想との合い | ○ | ◎ | ○（道具としては後退） |
 | 手間・戻しやすさ | 小・戻せる | 大・段ごとに戻せる（門あり） | 特大・戻しにくい |
@@ -86,7 +87,7 @@
 3. **指の覚えを壊さない。** まん中は今も今日の時間割、左端は今も日記。席の数・場所・英語の名付け・＋の位置は同じ。
 4. **足すのではなく、上げる。** 72候の写真・年々・どこかの一日・年の本・一日の帯・時間割——今ある物を主役の大きさにするだけ。
    新しい素材・通信・保存の入れ物は要らない。
-5. **段ごとに止まれる。** 段1〜3 は A と同じ道。そこで止めても今より良く、席の組み替え（段4）は使ってから決められる（13節の門）。
+5. **段ごとに止まれる。** 構1〜3 は A と同じ道。そこで止めても今より良く、席の組み替え（構4）は使ってから決められる（13節の門）。
 
 A で止めない理由：「今日」が割れたまま・思想の席が無いまま。C を採らない理由：roadmap 柱1「同じ場所・同じ手つき」に反し、用足しが一手遠くなる。
 
@@ -136,16 +137,18 @@ A で止めない理由：「今日」が割れたまま・思想の席が無い
 
 ### 6.6 一年の一冊（絵⑤⑨）・月の頁
 
-- 月ごとに六つの候（1月＝小寒・大寒 … 12月＝大雪・冬至）。升は候の写真・名・その候の一行。まだ来ていない候は名だけ。
+- 一年は節気ふたつ（候六つ）ずつの十二の列。升は候の写真・名・その候の一行。まだ来ていない候は名だけ。
+  **列の頭の「11月」は目安**——中身は立冬・小雪（11月7日ごろ〜12月6日ごろ）で、暦の月とは頭の数日がずれる。列の名を節気にするかは構5 で見比べる。
 - **小口**：頁の束の縁。節気の色（今の `SEKKI_C`）が帯になり、なぞると日へ飛ぶ。
-- 月の頁（絵なし）：今の「月ぜんぶ」を、頁の小さな写し（④の札）の並びに。
-- 年の境目（1月1〜4日は前の年から続く候）は年で絞って同じ升に入れる。細目は段5 で決める。
+- **月の頁（絵⑩）**：こちらは暦の月どおり。今の「月ぜんぶ」を、候ごとの見出しと、頁の小さな写しの並びに。書いていない日は、
+  済ませた・買った・歩いたの行で頁になる。**何も無い日は並べない**（今の「—」の行をやめる）。
+- 年の境目（1月1〜4日は前の年から続く候）は年で絞って同じ升に入れる。細目は構5 で決める。
 
 ## 7. 端末ごと
 
 - **iPhone**：一頁を親指で。筆と丸は右、＋は今の場所。日は紙を横に払う（今のまま）。小口は右の縁（当たりは 44px）。
 - **iPad**：横は見開き（絵⑦）——左は今日、右は相手を選ぶ（年々・いまごろ・あした・ノート）。去年の今日のとなりで、今日を書く。
-  縦は今の二段を「頁｜となり」に（下の帯は今のまま）。
+  縦は今の二段を「頁｜となり」に（下の帯は今のまま）。archive の月の頁は五列（絵⑩）。
 - **パソコン**：左の列に棚、まん中に頁、右にとなりの頁、右の縁に小口（絵⑧）。一年は一画面に収まる（絵⑨。列は月・升は候）。
   鍵盤は今の X2 に足す：J K で頁をめくる・N で書く・G で日へ・T で今日へ。
 
@@ -153,7 +156,7 @@ A で止めない理由：「今日」が割れたまま・思想の席が無い
 
 | 素材 | 役 | 出す所 | 守ること |
 |---|---|---|---|
-| 72候の写真（今ある72枚） | 章の扉・一年の升 | archive | 字の後ろに敷かない。小さい写しを足す（段5） |
+| 72候の写真（今ある72枚） | 章の扉・一年の升 | archive | 字の後ろに敷かない。小さい写しを足す（構5） |
 | 空の写真（20枚） | 「いま」 | 今日の頁の頭だけ | 幕で白い字を読ませる（今の決め） |
 | その日の一枚 | 頁の口絵 | 過ぎた日の頁・いまごろの札 | 今の D2 の置き場と鍵のまま |
 | 利用者の水彩 | 人の手の跡 | 空の画面・設定 | — |
